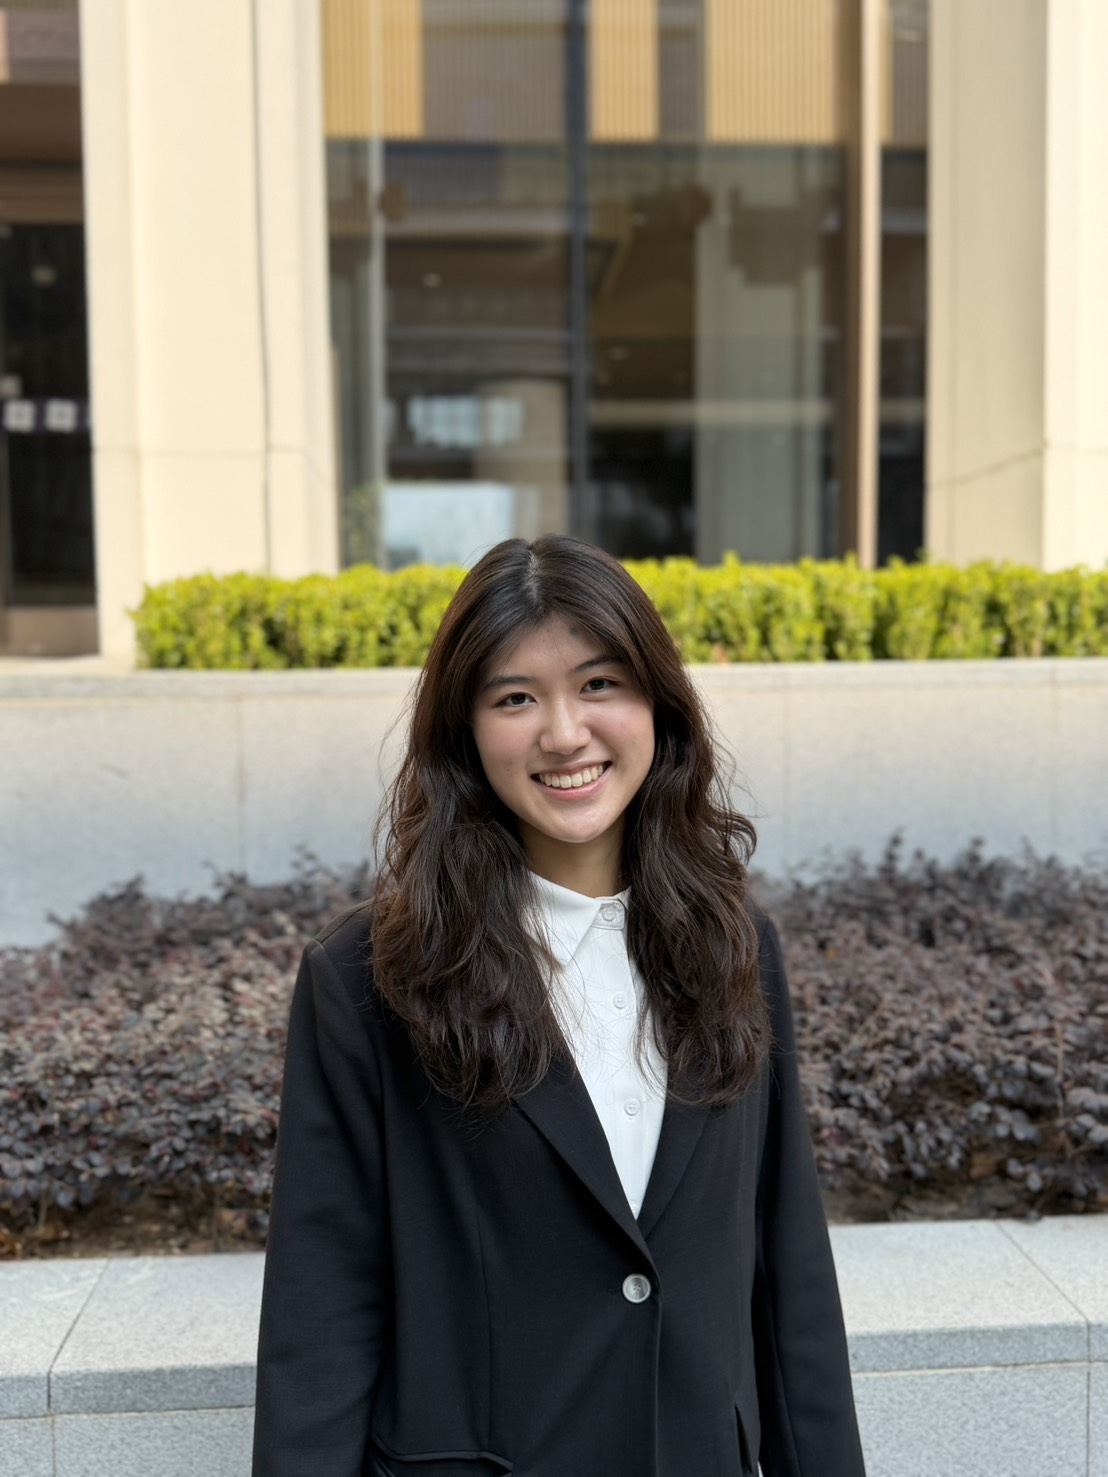
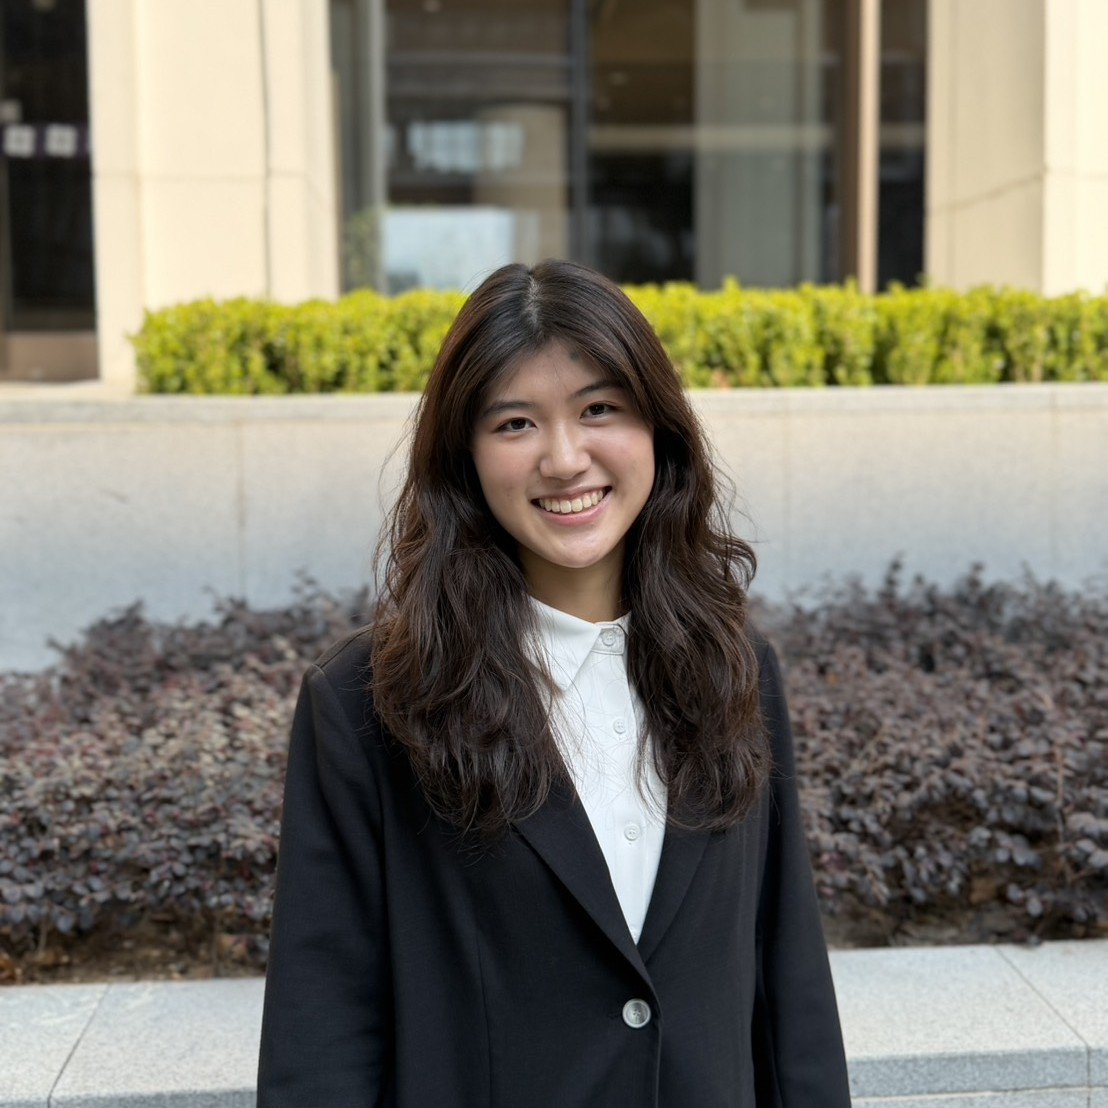
upd

diff --git a/_pages/certificates.html b/_pages/certificates.html
@@ -7,7 +7,7 @@ author_profile: true
 
 {% include base_path %}
 {% capture written_year %}'None'{% endcapture %}
-{% assign sorted_projects = site.competitions | sort: 'date' | reverse %}
+{% assign sorted_projects = site.certificates | sort: 'date' | reverse %}
 {% for post in sorted_projects %}
   
 
